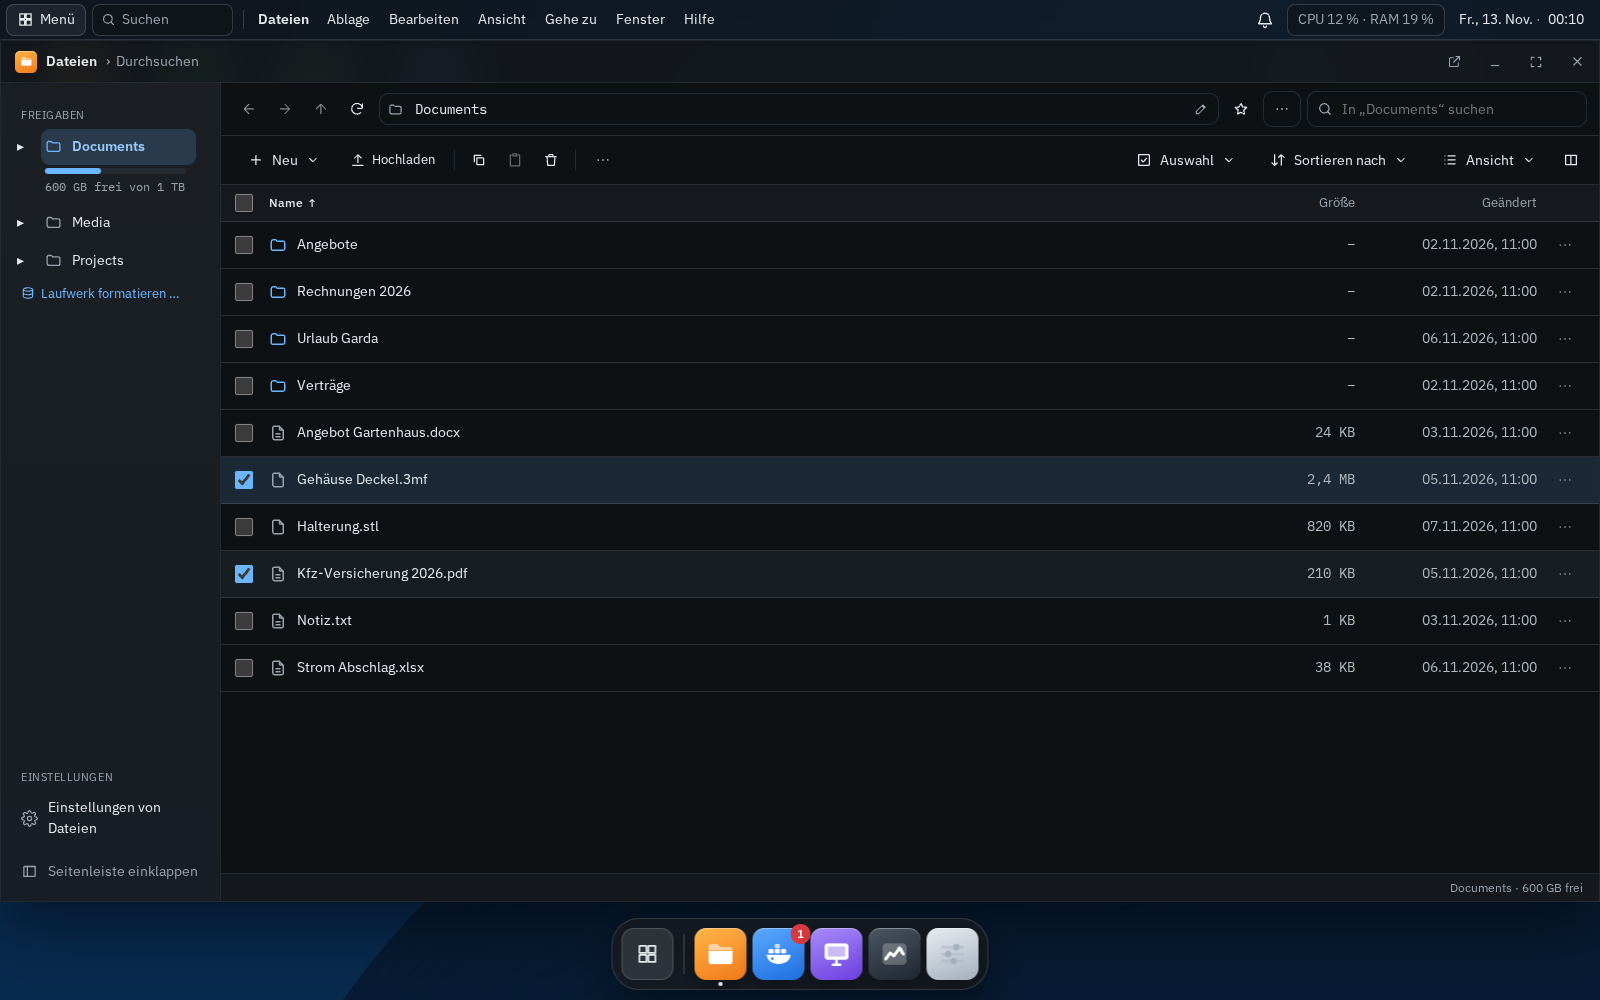
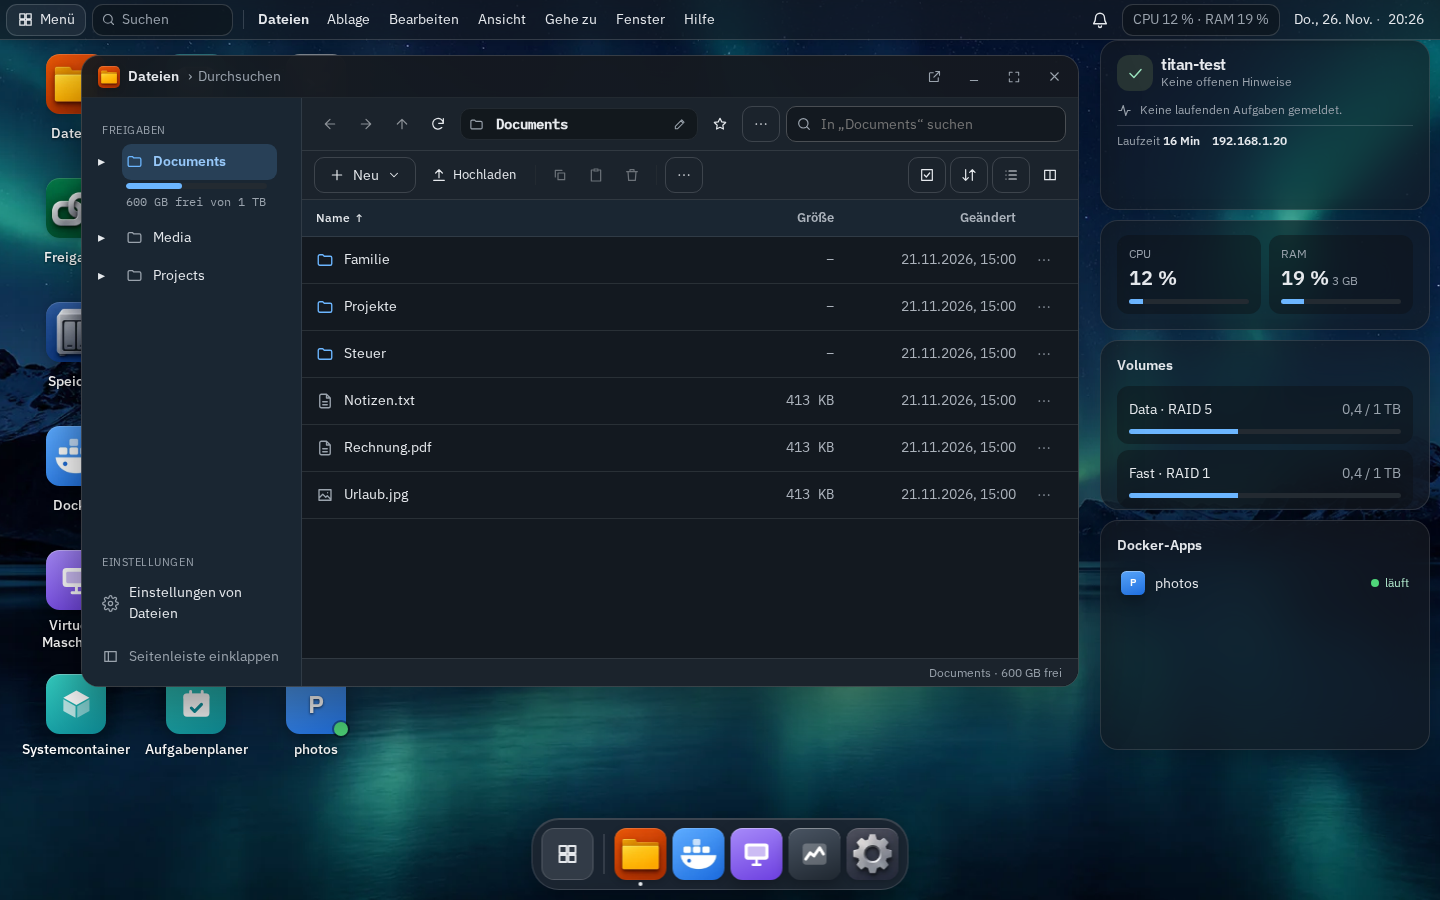
Zeige den geprüften Desktop in der Bedien- und Bilddokumentation

diff --git a/docs/screenshots/README.md b/docs/screenshots/README.md
@@ -4,6 +4,8 @@
 
 **Aufnahmestand:** Die ursprüngliche Bildserie der README kommt aus `scripts/capture-readme-screenshots.mjs` und zeigt den Stand **0.78 in Arbeit** (Zweig `docs/078-readme`, abgezweigt vom 0.78-Arbeitszweig `feat/078-nvr-ui` bei Commit `052cc095`; der Web-Teil ist bis `e3fe8443` unverändert). Aufgenommen am **13. November 2026** mit Chromium/Playwright gegen einen Vite-Entwicklungsserver dieses Stands, Theme Graphit, blauer Akzent, Deutsch; Programmfenster maximiert. Die Seiten nennen die Version 0.78 (`SHOW_VERSION`, ab Werk `0.78.0`).
 
+Am **26. November 2026** wurden [Dateien](current/dateien.png), [Docker](current/docker.png) und die [Systemsteuerung](current/systemsteuerung.png) im Nordlicht-Desktop auf Basis von PR 414 neu aufgenommen. Chromium öffnete die Programme im regulären Arbeitsplatzfenster mit isolierten API-Testdaten. Dateien und Docker zeigen Graphit mit Nordlicht-Hintergrund bei 1440 × 900 Pixeln. Die Systemsteuerung zeigt das helle Profil bei 1280 × 900 Pixeln. Die Herkunft je Bild steht in `current/capture.json`. [Bedienwege und Abnahme](../NORDLICHT-ABNAHME.md)
+
 Am **25. November 2026** kamen drei Aufnahmen aus Chromium mit isolierten Testdaten hinzu. Die beiden mobilen Bilder zeigen TitanOS 1.26 bei 390 × 844 Pixeln. Die Dock-Aufnahme zeigt den Entwicklungsstand von 1.28 bei 1440 × 1000 Pixeln. Die geöffnete Vorschau stammt aus dem Bedienablauf von `scripts/test-ui-desktop-125.mjs`.
 
 - [Offene Sicherungsprobe auf der mobilen Einstellungsseite](current/sicherungen-mobil-1.26.png)

diff --git a/docs/DESKTOP.md b/docs/DESKTOP.md
@@ -2,6 +2,10 @@
 
 Seit 0.58.0 zeigt TitanOS am großen Bildschirm einen **Arbeitsplatz**: Programme liegen als Symbole auf einem Hintergrundbild, jedes öffnet sich in einem eigenen Fenster. Er ersetzt Kopfzeile, Seitenleiste und Statusleiste (Entscheidung des Projektinhabers vom 6.11.2026); deren Code ist seit 0.62.0 entfernt, der Arbeitsplatz ist die einzige Oberfläche. Am Handy und auf einem hochkant gehaltenen Tablet (unter 900 px Breite) gibt es stattdessen einen Startbildschirm mit Seiten, Ordnern, Widgets und Dock (PLAN 87, Abschnitt „Handy“); jedes Programm öffnet im Vollbild mit „Zurück“.
 
+## Nordlicht am Desktop
+
+Die Statuskachel am Arbeitsplatz führt von einem Sicherungsfehler direkt zum betroffenen Auftrag. Der Fenstertitel zeigt Programm und Pfad. Häufige Befehle stehen in der Werkzeugleiste, weitere im Menü ⋯. Unter **Systemsteuerung → Darstellung** lassen sich Nordlicht, Klar und Kompakt ausprobieren. Die persönlichen Einzelwerte stehen unter **Erweitert**. Die [Seitenübersicht](NORDLICHT-SEITEN.md) und die [Zuordnung der Einstellungen](NORDLICHT-SYSTEMSTEUERUNG.md) nennen die jeweiligen Hauptorte.
+
 ## Programme
 
 Jede Seite von TitanOS gehört zu genau einem Programm (`web/src/lib/desktop/apps.ts`, ein Test prüft, dass keine Seite fehlt):
